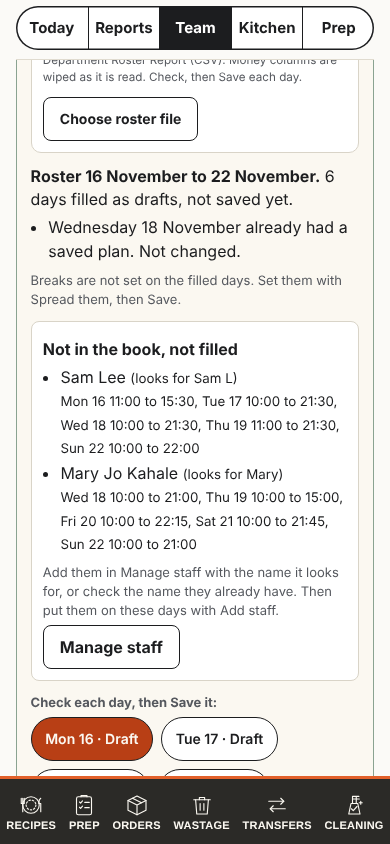
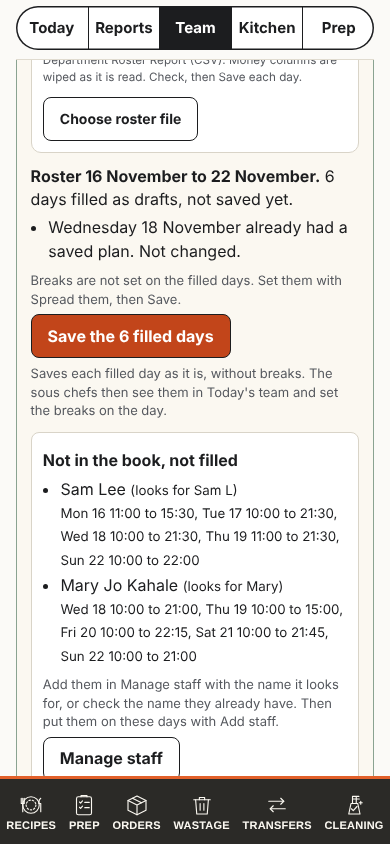
Save the filled days: one tap publishes the imported week for the sous chefs
The head chef wants the sous chefs to see the imported team and set the
breaks on the day. Saved days were already shared; the drafts were not.
One tap now saves every filled roster day as it is, without breaks, each
as its own dated plan in one all-or-nothing batch. 15 taps to 4 for the
week (390 px, stand-in). A refused batch saves none and keeps the drafts.

- js/prep.js: tmRsSaveAll(), tmRsDrafts(), the button in the roster block
  (shared svButton, key rs), single-day Save waits while it runs, clearer
  saved wording
- tests/roster-import-ui.test.js: 43 checks, incl. refused then retried
  batch, Wednesday untouched, and a sous chef spreading the breaks on an
  imported day
- docs: decision, brief step 3 with the quick check, pattern, read and
  write cost, README, session map; screenshots

Claude-Session: https://claude.ai/code/session_01JKvQc1pJhbSiasxfDsmh3y

Changed region(s): [[0.0615, 0.3697, 0.8615, 0.9242], [0.8923, 0.8009, 0.9231, 0.8318], [0.8923, 0.4929, 0.9231, 0.5237]]

diff --git a/js/prep.js b/js/prep.js
@@ -14105,6 +14105,7 @@ if (list.length) sg('oreg', 's');
     if (a === 'tm-day') { tmPlanSelect(el.getAttribute('data-day') || ''); tmDateFocus(); return; }
     if (a === 'tm-roster-choose') { tmRsChoose(); return; }
     if (a === 'tm-roster-day') { tmRsDay(el.getAttribute('data-day') || ''); return; }
+    if (a === 'tm-roster-saveall') { tmRsSaveAll(); return; }
     if (a === 'tm-week-prev' || a === 'tm-week-next') { tmPlanSelect(shift(tmPlanDay(), a === 'tm-week-prev' ? -7 : 7)); tmDateFocus(); return; }
     if (a === 'tm-today') { tmPlanSelect(dayNow()); tmDateFocus(); return; }
     // Refresh discards only this date's draft, after a second tap. Other dates' drafts survive the week query.
@@ -14326,6 +14327,52 @@ if (list.length) sg('oreg', 's');
     var head = S.root && S.root.querySelector('.tm-nhead');
     if (head) { head.scrollIntoView({ block: 'start' }); var h = head.querySelector('.p-h'); if (h) { h.setAttribute('tabindex', '-1'); h.focus({ preventScroll: true }); } }
   }
+  // the filled days still waiting as new drafts: not past, read, no saved plan, someone on them
+  function tmRsDrafts() {
+    var today = dayNow();
+    return tmRs && tmRs.st === 'done' ? tmRs.filled.filter(function (d) { var e = tmPlanEntry(d); return d >= today && e.st === 'ok' && !e.rec && e.f && tmPlanDirty(e) && tmOut(e.f).on.length > 0; }) : [];
+  }
+  /* Save the filled days (head chef, 14 Nov 2026: the sous chefs see the imported team and set the breaks on the day).
+     One batch, all or nothing: a dated team record for each filled day that is still a new draft, each with the next
+     version exactly as its own Save sends it, so the rules check every day as usual. A refusal saves none and keeps
+     every draft. A day saved for today sends today's team stamp, as teamSave() does. */
+  function tmRsSaveAll() {
+    if (!tmRsOK() || !tmRs || tmRs.st !== 'done' || svOf('t') === 'busy' || svOf('rs') === 'busy' || tmLastBusy) return;
+    tmPlanKeep();
+    var job = tmRs, mine = tmPlan, identity = stableIdentity(), t = now(), today = dayNow(), list = tmRsDrafts(), ops = [];
+    if (!list.length) return;
+    list.forEach(function (d) {
+      var f = tmPlanEntry(d).f, out = tmOut(f);
+      ops.push(['set', docRef('team', d), { day: d, on: out.on, br: out.br, v: f.base + 1, at: f.base ? f.at : t, upd: t }]);
+    });
+    var current = list.indexOf(today) >= 0;
+    if (current) { ops.push(['set', cfgDoc(), { pastEdit: { t: t } }, true]); tmOwn = t; }
+    var named = list.map(function (d) { return parseYmd(d).toLocaleDateString('en-AU', { weekday: 'short', day: 'numeric' }); }).join(', ');
+    svStart('rs'); job.saveMsg = ''; draw();
+    W(ops).then(function () {
+      if (tmPlan !== mine || identity !== stableIdentity()) return;
+      list.forEach(function (d, i) {
+        var e = tmPlanEntry(d), data = ops[i][2], clean = teamClean(Object.assign({ by: tmMe() }, data), d);
+        e.rec = clean; e.st = 'ok'; e.checkedAt = Date.now(); e.f.base = data.v; e.f.at = data.at; e.snap = tmSig(e.f);
+        if (tmf === e.f) tmSnap = e.snap;
+        if (d === today) tm = { day: d, rec: clean, st: 'ok', at: Date.now(), retry: 0, epoch: accessEpoch, stamp: t };
+      });
+      job.saveMsg = 'Saved ' + list.length + (list.length === 1 ? ' day' : ' days') + ' at ' + clock(t) + ': ' + named + '. The sous chefs see them in Today\'s team and set the breaks.';
+      // acknowledged after midnight for the day that is now today: one stamp so staff phones read it (as teamSave())
+      if (!current && list.indexOf(dayNow()) >= 0) {
+        var later = now(); tmOwn = later;
+        W([['set', cfgDoc(), { pastEdit: { t: later } }, true]]).then(function () { if (tm.day === dayNow()) tm.stamp = later; }, function () {});
+      }
+      svDone('rs', true, function () {}); draw(); tmPaint();
+    }, function (e) {
+      if (tmPlan !== mine || identity !== stableIdentity()) return;
+      svFail('rs', true);
+      var refused = e && e.code === 'permission-denied';
+      job.saveMsg = errMsg('Not saved: none of the days were saved, and the drafts are kept. ' + (refused ? 'Another chef may have saved one of them since. Refresh that day in the week list, then try again.' : 'Check the signal, then try again.'));
+      if (!refused) failed(e);
+      draw();
+    });
+  }
   function tmRsLeft() {
     if (!tmRs || tmRs.st !== 'done' || !tmRs.filled.length) return '';
     var n = tmRs.filled.filter(function (d) { return tmDayStatus(d) === 'Draft'; }).length;
@@ -14333,7 +14380,7 @@ if (list.length) sg('oreg', 's');
   }
   function tmRsHTML() {
     if (!tmRsOK()) return '';
-    var job = tmRs, busy = tmRsBusy(), off = busy || svOf('t') === 'busy' || tmLastBusy;
+    var job = tmRs, busy = tmRsBusy(), off = busy || svOf('t') === 'busy' || svOf('rs') === 'busy' || tmLastBusy;
     var short = function (d) { return parseYmd(d).toLocaleDateString('en-AU', { weekday: 'short', day: 'numeric' }); };
     var range = function (w) { return parseYmd(w.from).toLocaleDateString('en-AU', { day: 'numeric', month: 'long' }) + ' to ' + parseYmd(w.to).toLocaleDateString('en-AU', { day: 'numeric', month: 'long' }); };
     var tool = '<div class="tm-same"><span><b>Fill from roster file</b><small>Fills empty days with the Humanforce Weekly Department Roster Report (CSV). Money columns are wiped as it is read. Check, then Save each day.</small></span>' +
@@ -14347,21 +14394,25 @@ if (list.length) sg('oreg', 's');
     var skipped = job.week.days.filter(function (d) { return why[job.skip[d]]; }).map(function (d) { return '<li>' + esc(tmPlanDate(d)) + ' ' + why[job.skip[d]] + '</li>'; }).join('');
     var name = function (id) { var p = tmPeople().filter(function (x) { return x.id === id; })[0]; return p ? p.name : id; };
     var when = function (s) { return short(s.day) + ' ' + tmHHMM(s.from) + ' to ' + tmHHMM(s.to); };
-    var head = '<p role="status"><b>Roster ' + esc(range(job.week)) + '.</b> ' + (drafts ? drafts + (drafts === 1 ? ' day' : ' days') + ' filled as drafts, not saved yet.' : job.filled.length ? 'Every filled day is saved.' : 'Nothing was filled.') + (saved ? ' ' + saved + ' saved.' : '') + '</p>' +
+    var head = '<p role="status"><b>Roster ' + esc(range(job.week)) + '.</b> ' + (drafts ? drafts + (drafts === 1 ? ' day' : ' days') + ' filled as drafts, not saved yet.' + (saved ? ' ' + saved + ' saved.' : '') : saved ? (saved === job.filled.length ? 'All ' + saved + ' filled ' + (saved === 1 ? 'day is' : 'days are') + ' saved.' : saved + ' filled ' + (saved === 1 ? 'day is' : 'days are') + ' saved.') : job.filled.length ? 'The filled days are not drafts any more.' : 'Nothing was filled.') + '</p>' +
       (skipped ? '<ul class="tm-roster-list">' + skipped + '</ul>' : '') + (job.filled.length ? '<p class="hint">Breaks are not set on the filled days. Set them with Spread them, then Save.</p>' : '');
     var missing = job.plan.unmatched.length ? '<div class="tm-roster-missing"><p><b>Not in the book, not filled</b></p><ul class="tm-roster-list">' + job.plan.unmatched.map(function (u) {
       return '<li>' + esc(u.name) + ' <small>(looks for ' + esc(u.looksFor) + (u.why === 'many' ? '; more than one person fits' : u.why === 'shared' ? '; two people in the file fit the same person' : '') + ')</small><br><small>' + esc(u.shifts.map(when).join(', ') || 'No shifts') + '</small></li>';
     }).join('') + '</ul><p class="hint">Add them in Manage staff with the name it looks for, or check the name they already have. Then put them on these days with Add staff.</p><div class="btn-row"><button type="button" class="btn" data-p="a-tab" data-t="people"' + (off ? ' disabled' : '') + '>Manage staff</button></div></div>' : '';
     var idle = job.plan.idle.length ? '<p class="hint">Not on any service, not filled: ' + esc(job.plan.idle.map(function (x) { return name(x.id) + ' ' + when(x); }).join(', ')) + '.</p>' : '';
-    var days = job.filled.length ? '<p class="hint"><b>Check each day, then Save it:</b></p><div class="tm-roster-days" role="group" aria-label="Days filled from the roster">' + job.filled.map(function (d) {
+    var n = tmRsDrafts().length, rsBusy = svOf('rs') === 'busy';
+    var saveAll = n || svOf('rs') ? '<div class="btn-row tm-roster-save">' + svButton({ k: 'rs', p: 'tm-roster-saveall', idle: 'Save the ' + n + ' filled ' + (n === 1 ? 'day' : 'days'), off: !n || off && !rsBusy, busy: rsBusy }) + '</div>' +
+      (n ? '<p class="hint">Saves each filled day as it is, without breaks. The sous chefs then see them in Today\'s team and set the breaks on the day.</p>' : '') : '';
+    saveAll += svLine('rs', rsBusy, job.saveMsg || '');
+    var days = job.filled.length ? '<p class="hint"><b>' + (n ? 'Or open a day to check it first:' : 'Filled days:') + '</b></p><div class="tm-roster-days" role="group" aria-label="Days filled from the roster">' + job.filled.map(function (d) {
       return '<button type="button" class="chip" data-p="tm-roster-day" data-day="' + d + '" aria-pressed="' + (d === tmPlanDay()) + '" aria-label="' + esc(tmPlanDate(d) + ', ' + tmDayStatus(d)) + '"' + (off ? ' disabled' : '') + '>' + esc(short(d)) + ' · ' + tmDayStatus(d) + '</button>';
     }).join('') + '</div>' : '';
-    return out + head + missing + idle + days + '</section>';
+    return out + head + saveAll + missing + idle + days + '</section>';
   }
   /* Save: the plan with the next version, and the team stamp for the other phones, in one batch. Refused when another
      chef saved since this page read it: the page says so and keeps the changes, and Refresh reads theirs. */
   function teamSave() {
-    if (!tmPlanEditable() || svOf('t') === 'busy') return;
+    if (!tmPlanEditable() || svOf('t') === 'busy' || svOf('rs') === 'busy') return;
     if (!tmDirty()) { draw(); return; }
     var keep = tmf, mine = tmPlan, entry = tmPlanEntry(keep.day), identity = stableIdentity(), out = tmOut(keep), t = now(), v = keep.base + 1;
     var d = { day: keep.day, on: out.on, br: out.br, v: v, at: keep.base ? keep.at : t, upd: t };

diff --git a/tests/roster-import-ui.test.js b/tests/roster-import-ui.test.js
@@ -92,6 +92,50 @@ async function choose(p, file, done) {
   ok(!p.errors.length, 'refused file: no browser errors ' + p.errors.join(' | '));
   await p.context().close();
 
+  // Save the filled days (head chef, 14 Nov 2026): one tap saves every filled day; a refused write saves none
+  p = await L.open(b, '#/admin', { admin: true, adminPage: 'plan', extra: fixture(), wait: 1800 });
+  await planner(p);
+  await choose(p, csv(), true);
+  ok(/Save the 6 filled days/.test(await text(p, '[data-p="tm-roster-saveall"]')), 'the block offers Save the 6 filled days');
+  await p.evaluate(() => { __fake.mode = 'deny'; });
+  await p.locator('[data-p="tm-roster-saveall"]').click();
+  await L.waitFor(p, () => /none of the days were saved/.test((document.querySelector('.tm-roster') || {}).textContent || ''), null, 8000);
+  ok(!(await Promise.all(days.map(d => dump(p, key('team', d))))).filter((r, i) => i !== 2).some(Boolean) && /Try again/.test(await text(p, '[data-p="tm-roster-saveall"]')), 'a refused save saves none of the days and offers Try again');
+  ok((await p.$$eval('.tm-roster-days .chip', l => l.map(e => e.textContent))).every(c => / · Draft$/.test(c)), 'after a refusal every filled day is still a draft');
+  await p.evaluate(() => { __fake.mode = 'ok'; });
+  await p.locator('[data-p="tm-roster-saveall"]').click();
+  await L.waitFor(p, ks => ks.every(k => !!__fake.dump()[k]), [0, 1, 3, 4, 5, 6].map(i => key('team', days[i])), 8000); await L.settle(p, 300);
+  const saved = await Promise.all(days.map(d => dump(p, key('team', d))));
+  ok([0, 1, 3, 4, 5, 6].every(i => saved[i] && saved[i].v === 1 && saved[i].on.length && saved[i].br.length === 0 && saved[i].day === days[i]), 'one tap saves the six filled days, each its own dated plan without breaks');
+  ok(JSON.stringify(saved[2]) === JSON.stringify(wed), 'Wednesday, already saved, stays as it was');
+  ok(JSON.stringify(saved[0].on.map(o => o.id + ':' + o.sh)) === JSON.stringify(['ann:adl', 'ann:dinner', 'bo:adl', 'bo:dinner', 'bo:lunch']), 'Monday holds every service each roster shift touches (' + saved[0].on.map(o => o.id + ':' + o.sh).join(' ') + ')');
+  const said = await text(p, '.tm-roster');
+  ok(/All 6 filled days are saved\./.test(said) && /Saved 6 days at \d\d:\d\d/.test(said) && /sous chefs see them in Today's team and set the breaks/.test(said) && !await p.locator('[data-p="tm-roster-saveall"]:not([disabled])').count(), 'the block says what was saved and the button is off: ' + said.slice(said.indexOf('Saved 6'), said.indexOf('Saved 6') + 90));
+  ok((await p.$$eval('.tm-roster-days .chip', l => l.map(e => e.textContent))).every(c => / · Saved$/.test(c)), 'every filled day\'s chip now says Saved');
+  ok(!p.errors.length, 'save the filled days: no browser errors ' + p.errors.join(' | '));
+  const week = {}; [0, 1, 3, 4, 5, 6].forEach(i => { week[key('team', days[i])] = saved[i]; });
+  await p.context().close();
+
+  // a sous chef sees the imported team on the day and sets the breaks
+  p = await L.open(b, '#/team', { who: 'sam', extra: Object.assign(fixture(), week), wait: 1500 });
+  await L.waitFor(p, () => !!document.querySelector('.tm-notebook .tm-work [data-p="tm-whole"]'), null, 9000);
+  const dates = async () => { if (!await p.locator('.tm-weeknav').isVisible()) { await p.locator('[data-p="tm-date-toggle"]').click(); await L.settle(p, 200); } };
+  await dates();
+  for (let n = 0; n < 3 && !await p.locator('[data-p="tm-day"][data-day="' + days[0] + '"]').count(); n++) { await p.locator('[data-p="tm-week-next"]').click(); await L.settle(p, 400); await dates(); }
+  await p.locator('[data-p="tm-day"][data-day="' + days[0] + '"]').click();
+  await L.waitFor(p, d => (document.querySelector('.tm-notebook') || {}).getAttribute && document.querySelector('.tm-notebook').getAttribute('data-day') === d && !!document.querySelector('.tm-person-row'), days[0], 9000);
+  const seen = await p.$$eval('.tm-person-row', l => l.map(e => e.getAttribute('data-id')));
+  ok(seen.includes('ann') && seen.includes('bo') && !await p.locator('.tm-roster').count(), 'the sous chef sees Monday\'s imported team (' + seen.join(', ') + '), without the roster tool');
+  if (!await p.locator('[data-p="tm-spread"]').isVisible()) { await p.locator('[data-p="tm-batch-toggle"]').click(); await L.settle(p, 150); }
+  await L.pick(p, 'select[data-k="tm-tool-sh"]', 'dinner'); await L.settle(p, 150);
+  await p.locator('[data-p="tm-spread"]').click(); await L.settle(p, 200);
+  await p.locator('[data-p="tm-save"]').click();
+  await L.waitFor(p, k => { const r = __fake.dump()[k]; return !!r && r.v === 2; }, key('team', days[0]), 8000);
+  const mon = await dump(p, key('team', days[0]));
+  ok(mon.v === 2 && mon.br.length >= 2 && mon.br.every(x => x.sh === 'dinner') && JSON.stringify(mon.on) === JSON.stringify(saved[0].on), 'the sous chef sets the Dinner breaks and saves; the imported team stays as it was (' + mon.br.length + ' breaks)');
+  ok(!p.errors.length, 'sous chef breaks: no browser errors ' + p.errors.join(' | '));
+  await p.context().close();
+
   // only the admin panel: not on the head chef's or a sous chef's Today's team page
   for (const [label, o] of [['head chef on #/team', { admin: true }], ['sous chef on #/team', { who: 'sam' }]]) {
     p = await L.open(b, '#/team', Object.assign({ extra: fixture(), wait: 1500 }, o));

diff --git a/docs/design-patterns.md b/docs/design-patterns.md
@@ -94,7 +94,7 @@ The rules behind them are in `CLAUDE.md` (Service rules, Coding rules, Things th
 - **A roster notebook** (Today's team, underlying book chosen 8 Nov 2026): `.tm-notebook` holds the `.tm-nhead` heading and `.tm-nbook` ruled pages. The original left-planner/right-status desktop layout is historical; current C places the saved current-break board above the selected-person roster and responsive named detail editor. Reuse one `tmf` draft and one global version-protected Save across every view and resize. The saved panel's `.tm-away-slot` is painted by `tmAwayHTML()`, `tmNextHTML()` and `tmAwayPaint()` from `tm.rec` and the kitchen clock, never the draft. Say On break now, All shifts and Saved plan; distinguish meal breaks, splits, checked return times and unknown status. Existing clock paths repaint it without extra reads. [Original book and current layout link](team-notebook-options/brief.md).
 - **A person worksheet with focused details** (Today's team, C Roster and focus chosen 10 Nov 2026): `.tm-focus-page` extends the shared `.tm-notebook` with one `.tm-person-row` per selected-day person. `.tm-row-fields` holds labelled Service to edit and Section controls together. Service is memory-only person/date view state; No section retains membership and explicit Add/Remove service changes it. `.tm-row-summary` keeps readable break words and Edit breaks. One `.tm-detail-workbench` names person, service and date; it moves beside `.tm-focus-grid` on a laptop or into its row on smaller screens, preserving real controls, values and focus. Search must retain that editor when repainting the roster. `.tm-focus-save` is the one dated Save, scoped to the notebook and offset above actual phone navigation. Measure its real height for keyboard clearance, including failure messages. `.tm-live-strip` retains today's saved all-service names/return times and authoritative unknown/empty states. Only the local `.tm-focus-panel` heading condenses in the chef panel; global navigation stays. Keep Add staff, usual defaults, Whole day, copy/Spread, full saved references, dated drafts and canonical save/access/recovery helpers. [Chosen contract and actual-app evidence](team-page-options/implementation.md).
 - **An explicit group start** (Today's team, requested 9 Nov 2026): `.tm-quick-add` keeps Who's working? inline, with labelled checkbox groups `.tm-quick-people` and `.tm-quick-services`. No staff starts checked; the current configured service is visibly checked. Add selected staff adds only that group to the draft, preserving existing assignments, then the chooser can reopen for another group. Do not save automatically or assume all staff work. Keep unfinished choices private and separate by date/shift, protected through same-person lock recovery and reload guards, and cleared on handover. Retain 44 px checkbox labels and keyboard focus. [Contract and checks](team-tidy-options/brief.md#whos-working-and-independent-break-spacing).
-- **Fill from roster file** (Today's team in the admin panel only, chosen 14 Nov 2026; `docs/roster-import-options/brief.md`): `.tm-roster` sits in its own grid row below the Copy a day fold (`grid-area: roster`), so it stays in view when the selected date changes. It reuses the `.tm-same` row for Choose roster file, says what was filled in words (Draft, Saved, Not changed), lists people not in the book in `.tm-roster-missing` with the name the book looks for and Manage staff, and gives one `.chip` per filled day in `.tm-roster-days` (a chip selects that date like the week list). A filled row says its roster time in `.tm-roster-time` under the name. Nothing saves until each day's own dated Save.
+- **Fill from roster file** (Today's team in the admin panel only, chosen 14 Nov 2026; `docs/roster-import-options/brief.md`): `.tm-roster` sits in its own grid row below the Copy a day fold (`grid-area: roster`), so it stays in view when the selected date changes. It reuses the `.tm-same` row for Choose roster file, says what was filled in words (Draft, Saved, Not changed), lists people not in the book in `.tm-roster-missing` with the name the book looks for and Manage staff, and gives one `.chip` per filled day in `.tm-roster-days` (a chip selects that date like the week list). A filled row says its roster time in `.tm-roster-time` under the name. Nothing saves by itself: Save the N filled days (the shared `svButton()`, form key `rs`) saves every filled draft in one all-or-nothing batch, or each day is opened and saved on its own.
 - **Break duration and group spacing** (Today's team, requested 9 Nov 2026): keep the existing Spread them controls, with distinct labels for Each break and Start next group every. After previous break preserves the old sequential default. An explicit shorter start interval means deliberate overlap, never a shorter break. Apply spacing between one- or two-person groups; all together has one start. Reuse shared picker controls and preserve the other break kind, draft boundaries and one Save. [Contract and checks](team-tidy-options/brief.md#whos-working-and-independent-break-spacing).
 - **A long run of rows that are not the point** folds into one line that names them and says Show (`.tm-fold`, with `aria-expanded`), instead of filling the screen.
 - **Nothing new over a list during service** unless it stops a mistake (`CLAUDE.md`, Service rules).

diff --git a/docs/roster-import-options/brief.md b/docs/roster-import-options/brief.md
@@ -2,7 +2,7 @@
 
 14 November 2026, Queensland. Head chef request: fill Today's team from the Humanforce Weekly Department Roster Report (CSV export) while a read-only Humanforce API key is requested from Australian Venue Co IT. [Proposal](proposal.md), [evidence packet](evidence-packet.md). Role-based analysis, not research with staff.
 
-**Status: the combined design chosen 14 November 2026. Step 1 (the reader) and step 2 (the admin panel screen) built and tested locally; draft pull request #699. The week-to-week measurement waits for a second roster.**
+**Status: the combined design chosen 14 November 2026. Step 1 (the reader), step 2 (the admin panel screen) and step 3 (Save the filled days) built and tested; draft pull request #699. The week-to-week measurement waits for a second roster.**
 
 ## Head chef answers after round 1 (14 November 2026)
 
@@ -284,3 +284,17 @@ The chips save 6 taps over the date picker at the cost of scrolling; both work, 
 - **04:00 refresh** (Keeper): unsaved planner drafts hold the 04:00 refresh and silent updates, as they already did for any planner draft; an import can leave up to seven. Not changed here; save or discard the roster days the same day. A rule for old drafts would be the head chef's call.
 - **Home for a day saved without breaks**, the Manage staff detour with drafts open and a chip during a privacy lock: covered by existing planner behaviour, not exercised in a dedicated test.
 - The downloaded CSV keeps its wage columns on the device; the import runs only on the head chef's admin session.
+
+## Step 3: Save the filled days (built 14 November 2026)
+
+The owner asked to "let the sous chef see the imported team as well and let him edit the breaks on the day". Saved days were already visible and editable for the sous chefs; only the unsaved drafts were not. Offered two options (one tap to save every filled day; show roster times to the sous chefs, which needs a rules change), the owner asked what made most sense and accepted the recommendation: the button now, roster times later if the sous chefs need them.
+
+**Quick check (small change on the admin-only roster block, no new page, tab or pop-up).** Main task, fill and publish the week from the file: 15 taps before (a chip and Save for each of 6 days), **4 after** (Choose 1, picker 2, Save the 6 filled days 1); Implemented app, stand-in, 390 px. Contract fit: a departure from the week planning contract's "no ambiguous Save week", chosen by the head chef for the roster only. The button names the count ("Save the 6 filled days"), says it saves without breaks, and the block names every saved day after the write (Duolingo: Saved only after the server answers; Linear: one place). Break-it: saving days nobody opened (the council's C finding) is accepted by the head chef; the reader fails closed, names are never guessed, only empty days are filled, staff see only their own day, and the sous chef checks the day before setting breaks. A refused or failed batch saves none of the days and keeps every draft.
+
+**How it works.** `tmRsSaveAll()` sends one `W()` batch: a `team/<day>` record for each filled day that is still a new draft (not past, read, no saved plan, someone on it), each with the next version exactly as its own Save sends it, so the rules check every day as usual; plus today's team stamp when today is one of them, and one follow-up stamp when the save is acknowledged after midnight for the new day (as `teamSave()`). The single-day Save waits while it runs. Uses the shared Save button (`svButton()`, form key `rs`): Saving..., then Saved with a tick; then "Saved 6 days at 14:00: Mon 16, Tue 17, ... The sous chefs see them in Today's team and set the breaks." A failure says "Not saved: none of the days were saved, and the drafts are kept." with Try again.
+
+| Action | Immediate response | Acknowledgement | Failure and reversal |
+| --- | --- | --- | --- |
+| Save the N filled days | Saving..., the button and chips off | Saved with a tick, then the dated list of days saved; chips say Saved | Red words stay: none saved, drafts kept, Try again. A saved day is changed later by opening it and saving again |
+
+**Checks** (`tests/roster-import-ui.test.js`, now 43): the button names the 6 days; a refused write saves none and offers Try again with every day still Draft; Try again saves all six, each `v: 1` with its services and no breaks; Wednesday unchanged; Monday holds every service each shift touches; the block says All 6 filled days are saved and what was saved; every chip says Saved; then a sous chef on `#/team` opens Monday, sees the imported team without the roster tool, spreads the Dinner breaks and saves `v: 2` with the team unchanged. Screenshots: `built-saveall-390.png`, `built-saved-390.png`.

diff --git a/docs/session-map.md b/docs/session-map.md
@@ -233,7 +233,7 @@ Section prep standards, chosen 8 November 2026: `docs/prep-standards.md` records
 | Seasonal celebrations, festival dates and their sources | `docs/seasonal-celebrations.md`, `docs/seasonal-calendar.md` |
 | Admin flow baseline behind The Chef's Desk | `docs/admin-flow-spec.md` |
 | Smoker batch cards and what was left out (30 Oct 2026) | `docs/smoker-batches.md` |
-| Fill Today's team from the Humanforce roster file (14 Nov 2026): council Build smaller 4 of 5, round 2 A 41, B 31, C 27; the owner chose the combined design (fill empty days as drafts, tap a day to open it, one dated Save, unmatched names first), admin panel only, no wages processed. Built: `js/roster-import.js` (reader, money wiped as read, fails closed, day-total check, services, names; lazy, loaded on Choose roster file), the admin Team room's Today's team page with the roster block (`tmRs*`, `tmDayStatus()` in `js/prep.js`; `.tm-roster*` in `css/app.css`); tests `tests/roster-import.test.js` (61), `tests/roster-import-ui.test.js` (31), fixture `tests/roster-fixture.js` | `docs/roster-import-options/brief.md` |
+| Fill Today's team from the Humanforce roster file (14 Nov 2026): council Build smaller 4 of 5, round 2 A 41, B 31, C 27; the owner chose the combined design (fill empty days as drafts, tap a day to open it, one dated Save, unmatched names first), admin panel only, no wages processed. Built: `js/roster-import.js` (reader, money wiped as read, fails closed, day-total check, services, names; lazy, loaded on Choose roster file), the admin Team room's Today's team page with the roster block (`tmRs*`, `tmDayStatus()` in `js/prep.js`; `.tm-roster*` in `css/app.css`); Save the filled days (one all-or-nothing batch, `tmRsSaveAll()`; the sous chefs set the breaks on the day); tests `tests/roster-import.test.js` (61), `tests/roster-import-ui.test.js` (43), fixture `tests/roster-fixture.js` | `docs/roster-import-options/brief.md` |
 | Today's team: shifts, sections, breaks and the team chip, selected A with three pieces of B (7 Nov 2026), all four steps built (the chef's page, the staff side, the training numbers in `teamsum/main`), then split shifts and chefs' own sections (7 Nov 2026) | `docs/todays-team-options/brief.md`, `docs/prep-book.md` (Today's team) |
 | Today's team roster notebook, refined A chosen (8 Nov 2026): planner left and saved scheduled-away status right from 1100 px, one flow below; pinned Whole day draft review, scrollable configured shifts and section-first assignment; one draft and version-protected Save. Original Build smaller 5 of 5, A 4 of 6 and six-reviewer follow-up recorded. Historical notebook delivered in #601 with successful Pages/live checks; the current C Person worksheet in #639/#645 supersedes section-first assignment. Original eight-file and 63-check local results remain dated evidence | `docs/team-notebook-options/brief.md` (Chosen, Build, preserved contract, historical preview comparison, actual tap/phone visibility checks and local validation), `docs/prep-book.md` (Today's team), `docs/code-contracts.md` (Today's team roster notebook); `a.html`, `b.html` there are the original concepts |
 | Today's team management tidy-up, current choice C Person worksheet (9 Nov 2026), replacing initial A Quiet notebook: one person row with its own section picker, break summary and labelled details; shared week/shift/Whole day controls, independent date drafts and one Save before tools. Quick staff/service groups and independent break-start spacing are included. Original council scores and A's checks remain historical; C locally verified with 430 focused checks and 15 integration files, deployed in #639 with the selected-day refinement in #645. The #639 live run was cancelled; #645 Pages/live checks passed | `docs/team-tidy-options/brief.md` (current choice, preserved contract, historical comparison and separate evidence), `docs/code-contracts.md` (Today's team roster notebook), `docs/design-patterns.md` (A person worksheet) |

diff --git a/README.md b/README.md
@@ -20,7 +20,7 @@ Head and sous chefs can plan staff sections ahead in **Today's team** (9 Novembe
 
 Today's team management uses **C, Roster and focus** (chosen 10 November 2026; implemented and locally verified, delivery tracked in PR #652). Each selected person's row has **Service to edit** and **Section** together, with explicit service membership actions and named break details. The complete week opens from the selected date; one dated Save stays reachable inside the notebook. The direct and chef-panel planner retain Add staff, usual editable defaults, independent date drafts, Whole day, copy/Spread and full saved references. Today's saved break status remains separate from draft and future plans. Combined-source evidence passes 550 team/date assertions, 13 affected integration files and 215 complete-app checks, with two complete initial phone people directly and one in the chef panel. [Chosen design and original council](docs/team-page-options/brief.md), [implementation and delivery state](docs/team-page-options/implementation.md). The earlier 9 November worksheet shipped in [PR #639](https://github.com/KuschiKuschbert/leichhardt-kitchen/pull/639) with its selected-day refinement in [PR #645](https://github.com/KuschiKuschbert/leichhardt-kitchen/pull/645); [historical evidence](docs/team-tidy-options/brief.md).
 
-**Fill from roster file** (chosen 14 November 2026, admin panel only): in the admin panel's Team room, Today's team has a Choose roster file button for the head chef's admin session. The device reads the Humanforce Weekly Department Roster Report (CSV) itself, wiping every money cell as it reads, and refuses a file that does not fit the report. Empty days from today on are filled as drafts (every service a shift touches, usual sections), days already planned or past are named and left alone, and people not in the book are listed with the name the book looks for. A chip opens each filled day with each person's roster time; each day is saved with its own Save, as by hand. Breaks are not in the file. [Brief](docs/roster-import-options/brief.md).
+**Fill from roster file** (chosen 14 November 2026, admin panel only): in the admin panel's Team room, Today's team has a Choose roster file button for the head chef's admin session. The device reads the Humanforce Weekly Department Roster Report (CSV) itself, wiping every money cell as it reads, and refuses a file that does not fit the report. Empty days from today on are filled as drafts (every service a shift touches, usual sections), days already planned or past are named and left alone, and people not in the book are listed with the name the book looks for. A chip opens each filled day with each person's roster time; each day can be saved with its own Save, or every filled day at once with **Save the filled days** (without breaks; the sous chefs then see the week in Today's team and set the breaks on the day). Breaks are not in the file. [Brief](docs/roster-import-options/brief.md).
 
 An empty day offers **Who's working?**: check the people and services, then **Add selected staff** into the draft. The current service starts visibly checked; no staff member is assumed to work. Reopen for another group, set each person's section per service and save once. Spread them keeps break length separate from **Start next group every**, allowing 30-minute breaks to start 15 minutes apart. **After previous break** preserves the existing default spacing; one-person, two-person and all-together modes remain. Unfinished quick choices stay private and protected with the dated draft. [Workflow and checks](docs/team-tidy-options/brief.md#whos-working-and-independent-break-spacing).
 

diff --git a/docs/head-chef-decisions.md b/docs/head-chef-decisions.md
@@ -1,5 +1,7 @@
 # Head chef decisions
 
+- **14 November 2026, Save the filled days: the sous chefs see the imported team and set the breaks on the day.** Asked what made most sense after "let the sous chef see the imported team as well and let him edit the breaks on the day", the owner chose a Save the filled days button in the admin panel's roster block ("okay"): one tap saves every filled roster day as it is, without breaks, each as its own dated team plan in one all-or-nothing batch. The sous chefs then see the week in Today's team and set the breaks on the day, as they already could on any saved day. This replaces "check and save each day" for the roster only; each day can still be opened and saved on its own. Showing roster start and finish times to the sous chefs was left for later (it needs a rules change). `docs/roster-import-options/brief.md` (Step 3).
+
 - **14 November 2026, fill Today's team from the Humanforce roster file: the combined design, reader first, admin only.** The owner asked to pull the staff roster from Humanforce. A personal login is not used (an API key was requested from IT instead), and in the meantime the Weekly Department Roster Report CSV is read on the device. After both council rounds (Build smaller, 4 of 5; round 2 A 41, B 31, C 27) and a combined preview, the owner chose the combined design: the file fills empty days as drafts, a tap on a day opens it, one dated Save for each day, people missing from the book listed first with their days and times (never added from the file). Every book service a roster shift touches is filled. No wages are processed: every money cell is wiped in memory before anything reads the file. The import runs only on the owner's admin account, in the admin panel. Build order: step 1 is the reader alone with tests (`js/roster-import.js`, not loaded by the book yet), used privately on a second week to measure how much the roster changes; step 2, the screen, only if that is worth it. With no second roster yet, the owner then chose to build the screen now and judge it on the next real roster: a Today's team page in the admin panel's Team room, with the roster block below the Copy a day fold. `docs/roster-import-options/brief.md`.
 
 - **14 November 2026, keep the screen on with a recipe open.** The owner asked for "the option in the recipes for a leave screen on toggle", because the phone screen turns off with a recipe open. After both council rounds and a combined preview, the owner chose the recommendation ("Yeah go for gold"): a Keep screen on chip at the right of every recipe's trail line and the same switch in Settings, This phone, **off until a cook taps it**, remembered on that phone. On a phone the trail keeps its links and drops the recipe's own name, which is the heading right under it. The screen stays on only on recipe pages and lets go on every other page, when the book is hidden, while a device is locked and after 15 minutes without a touch. Not offered where the phone cannot do it. No reads, writes or rules. [Brief](keep-screen-on-options/brief.md).

diff --git a/docs/firestore-usage.md b/docs/firestore-usage.md
@@ -2,7 +2,7 @@
 
 ## Fill from roster file, 14 November 2026
 
-[Fill from roster file](roster-import-options/brief.md) (admin panel, Today's team, head chef's admin session only): reading the CSV costs nothing (the device reads the file). Choosing a file reads that roster week's saved plans once from the server: the planner's existing bounded week query (`tmPlanLoad(true)`), up to 7 reads, 1 for an empty week. Each day is then saved with the existing dated Save (one write each, as by hand). No listener, no poll, no saved copy; the file is never sent or kept.
+[Fill from roster file](roster-import-options/brief.md) (admin panel, Today's team, head chef's admin session only): reading the CSV costs nothing (the device reads the file). Choosing a file reads that roster week's saved plans once from the server: the planner's existing bounded week query (`tmPlanLoad(true)`), up to 7 reads, 1 for an empty week. Each day is then saved with the existing dated Save (one write each, as by hand), or all at once with Save the filled days: one batch of one `team/<day>` write per filled day (up to 7), plus today's team stamp when today is one of them. No listener, no poll, no saved copy; the file is never sent or kept.
 
 ## Records and Filled for you, 13 November 2026
 
